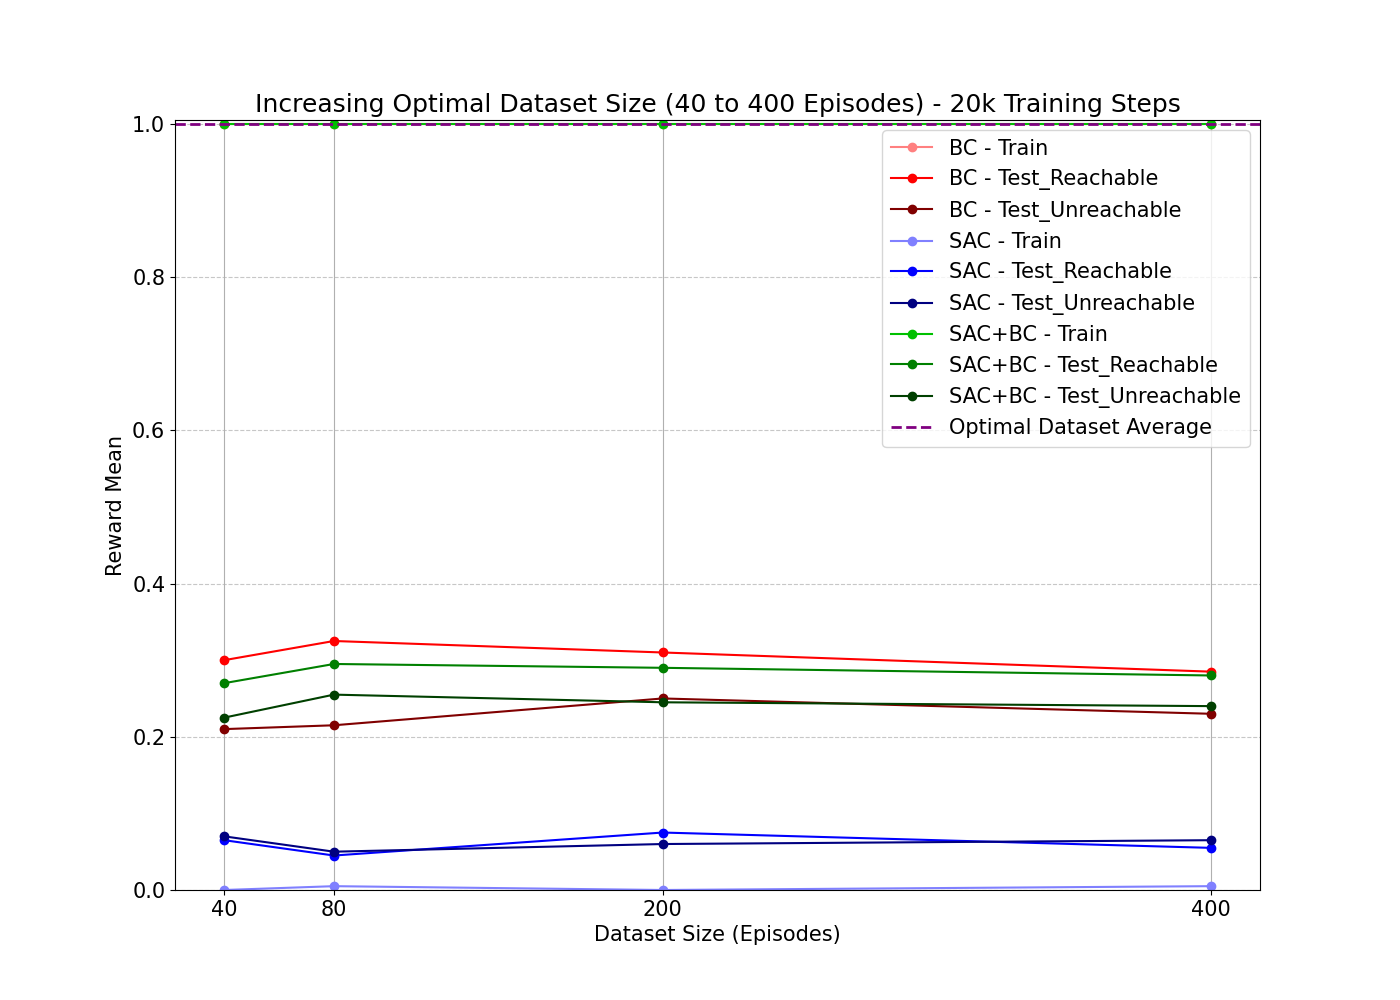
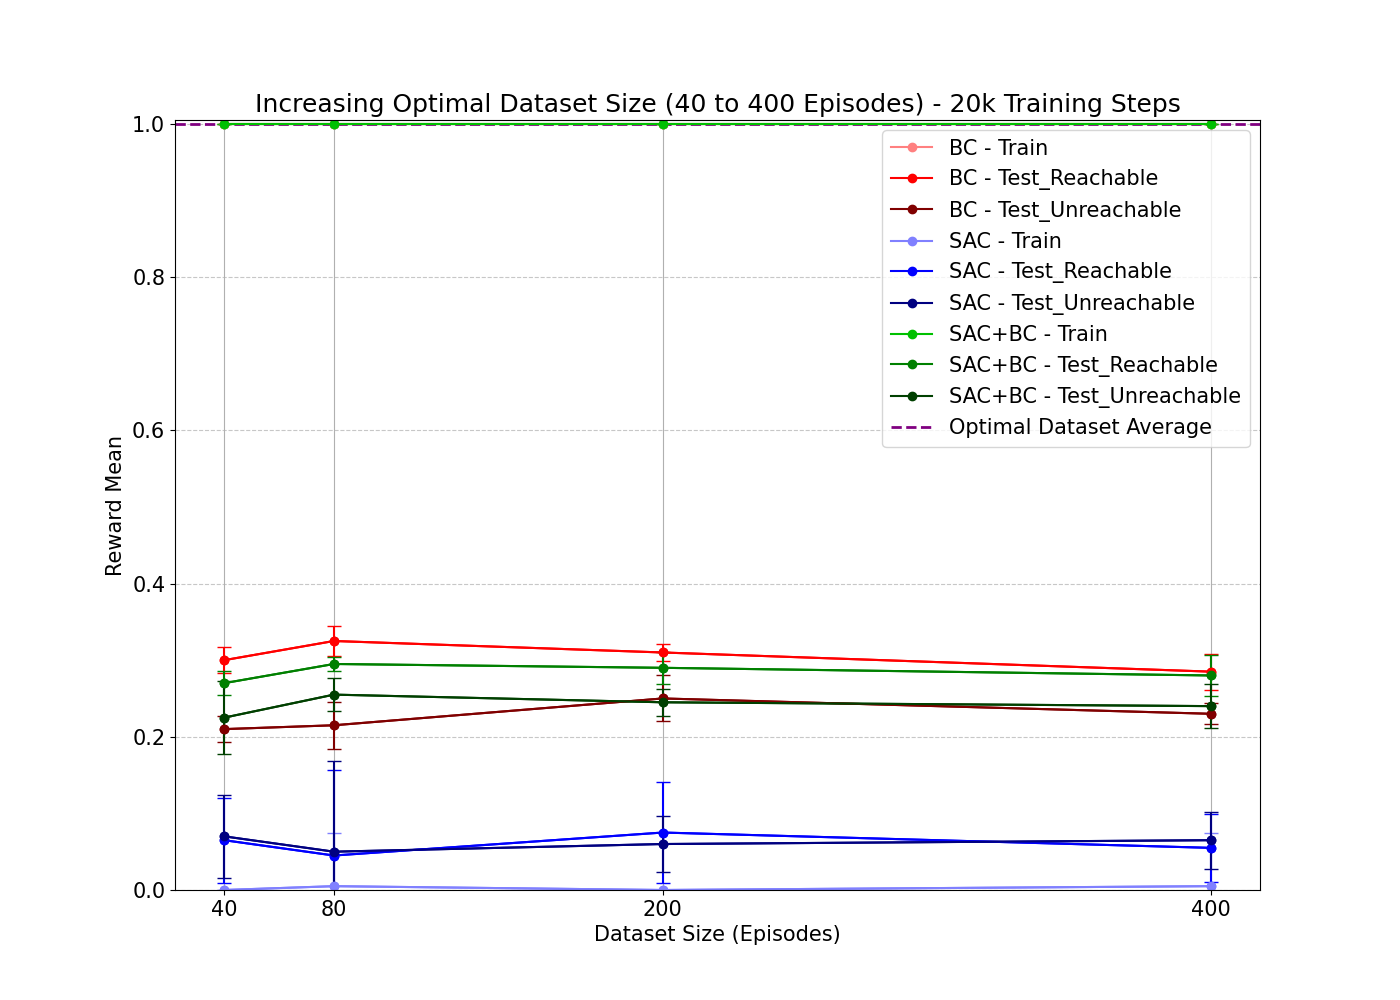
update plots

diff --git a/results.py b/results.py
@@ -129,22 +129,24 @@ def plotLearningCurve(dataset_quality: str, algorithm: str):
     
     
     # Draw standard deviation as a shaded area in the background
+    plt.rcParams.update({'font.size': 14})  # Adjust this value as needed
     plt.figure(figsize=(12, 8))
 
     for environment in grouped_env["Environment"].unique():
         env_data = grouped_env[grouped_env["Environment"] == environment]
         steps = env_data["Steps"].values
         reward_mean = env_data["Reward_mean"].values
-        # reward_std = env_data["Reward_std"].values
+        reward_std = env_data["Reward_std"].values
+        # plt.errorbar(env_data["Steps"], env_data["Reward_mean"], yerr=env_data["Reward_std"], fmt='-o', capsize=5, label=environment)
         plt.plot(steps, reward_mean, marker='o', label=environment)
-        # plt.fill_between(steps, reward_mean - reward_std, reward_mean + reward_std, alpha=0.2)
+        plt.fill_between(steps, reward_mean - reward_std, reward_mean + reward_std, alpha=0.2)
 
     dataset_line = plt.axhline(y=dataset_average, color='red', linestyle='dotted', linewidth=1, label=f'{dataset_quality} Dataset Average')
     dataset_line.set_dashes([5, 10])  # 5 points on, 10 points off
 
     plt.xlabel("Training Steps")
-    plt.ylabel("Mean Reward")
-    plt.title(f"{algorithm.upper()} Learning Curve - {dataset_quality.capitalize()} Dataset with {dataset_size} Transitions - Averaged over 5 seeds")
+    plt.ylabel("Reward Mean")
+    plt.title(f"{algorithm.upper()} Learning Curve - {dataset_quality.capitalize()} Dataset with {dataset_size} Episodes")
     plt.legend()
     plt.grid(True)
     
@@ -202,10 +204,11 @@ def plotGeneralizationGraph(dataset_quality: str, training_steps: int):
     reward_mean_std = reward_mean_std.unstack()
 
     # Plotting
+    plt.rcParams.update({'font.size': 13})  # Adjust this value as needed
     fig, ax = plt.subplots(figsize=(8, 6))
     reward_mean_avg_env.plot(kind='bar', yerr=reward_mean_std, capsize=4, ax=ax,
         color=['skyblue', 'lightgreen', 'salmon'])
-    ax.set_title(f'{dataset_quality.capitalize()} Dataset with {dataset_size} Transitions - {int(training_steps / 1000)}k Training Steps')
+    ax.set_title(f'{dataset_quality.capitalize()} Dataset with {dataset_size} Episodes - {int(training_steps / 1000)}k Training Steps')
     ax.set_ylabel('Reward Mean')
     ax.set_xlabel('')
     ax.set_xticks(range(len(reward_mean_avg_env.index)))
@@ -261,7 +264,8 @@ def plotTrainingEnvironmentGraph(training_steps: int):
     reward_mean_std = df_train.groupby(['Algorithm', 'Dataset'])['Reward_mean'].std().unstack()
 
     # Plotting
-    fig, ax = plt.subplots(figsize=(12, 6))
+    plt.rcParams.update({'font.size': 15})  # Adjust this value as needed
+    fig, ax = plt.subplots(figsize=(8, 6))
 
     reward_mean_avg_env.T.plot(kind='bar', yerr=reward_mean_std.T, capsize=4, ax=ax,
         color=['skyblue', 'lightgreen', 'salmon'])
@@ -336,7 +340,7 @@ def plotVariousDatasetSizeGraph(dataset_quality: str):
     
     df_filtered = df[df['Steps'] == training_steps]
     # Group by Size, Algorithm, and Environment, then calculate the mean of Reward_mean
-    df_grouped_env = df_filtered.groupby(['Size', 'Algorithm', 'Environment']).agg({'Reward_mean': 'mean'}).reset_index()
+    df_grouped_env = df_filtered.groupby(['Size', 'Algorithm', 'Environment']).agg({'Reward_mean': 'mean', 'Reward_std': 'std',}).reset_index()
 
     # Plot
     plt.rcParams.update({'font.size': 15})  # Adjust this value as needed
@@ -344,8 +348,16 @@ def plotVariousDatasetSizeGraph(dataset_quality: str):
     for algorithm in df_grouped_env['Algorithm'].unique():
         for environment in df_grouped_env['Environment'].unique():
             subset = df_grouped_env[(df_grouped_env['Algorithm'] == algorithm) & (df_grouped_env['Environment'] == environment)]
+            print('subset:', subset)
             color = adjust_color_lightness(algorithm_base_colors[algorithm], environment_lightness[environment])
             plt.plot(subset['Size'], subset['Reward_mean'], marker='o', label=f'{algorithm} - {environment}', color=color)
+
+            size = subset["Size"].values
+            reward_mean = subset["Reward_mean"].values
+            reward_std = subset["Reward_std"].values
+            # plt.fill_between(size, reward_mean - reward_std, reward_mean + reward_std, alpha=0.5)
+            plt.errorbar(size, reward_mean, yerr=reward_std, fmt='-o', capsize=5, color=color)
+
 
     plt.grid(axis='y', linestyle='--', alpha=0.7)
     plt.ylim(0, 1.005)
@@ -362,32 +374,6 @@ def plotVariousDatasetSizeGraph(dataset_quality: str):
 
 
 
-
-
-# 4. How much overfitting on the training model performs the best
-# which SAC-N model performs the best on test100_config and test0_config?
-# use models from 0.1-1.0 mean reward on evaluating on training_config
-
-############# Configuration ##########################################################
-
-CONFIG = {
-    "training_datasets": {
-        # "optimal": "./datasets/expert_dataset_iql.pkl",
-        "optimal": "./datasets/optimal_40x.pkl",
-        "suboptimal": "./datasets/suboptimal_80x.pkl"
-    },
-    "evaluation_models": {
-        "optimal": {
-            "sac": "./models/sac/optimal_2999epochs.pt",
-            "bc": "./models/bc/BC_model_optimal.d3",
-        },
-        "suboptimal": {
-            "sac": "./models/sac/suboptimal_2999epochs.pt",
-            "bc": "./models/bc/BC_model_suboptimal.d3"
-        }
-    }
-}
-
 ############# Dataset Generation ######################################################
 
 def generate_datasets():
@@ -396,46 +382,40 @@ def generate_datasets():
         dataset_gen_suboptimal_policy.generate_dataset(num_episodes)
         dataset_gen_mixed_policy.generate_dataset(num_episodes)
 
-############# Training ###############################################################
-
-
-############# Evaluation #############################################################
-
-
-
-
-
-
 
 
 ############# Main Execution #########################################################
 
 def main():
     # 1. Generate datasets
-    generate_datasets()
+    # generate_datasets()
     
     # 2. Tune Hyperparameters
+    # TODO: tune hyperparameters manually with hyperparameter_tuning_bc.py, hyperparameter_tuning_sac.py, hyperparameter_tuning_sac_bc.py
     
     # 3. Train algorithms
+    # TODO: train & save models manually with the train() function in discrete_BC.py, discrete_sac.py, discrete_BC_sac.py
     
     # 4. Evaluate models 
+    # TODO: evaluate models manually with the eval_all_models() function in discrete_BC.py, discrete_sac.py, discrete_BC_sac.py
     
     # 5. plot results
-    plotLearningCurve(dataset_quality='optimal', algorithm = 'bc')    
-    plotLearningCurve(dataset_quality='suboptimal', algorithm = 'bc')    
-    plotLearningCurve(dataset_quality='mixed', algorithm = 'bc')    
-    plotLearningCurve(dataset_quality='optimal', algorithm = 'sac_')    
-    plotLearningCurve(dataset_quality='suboptimal', algorithm = 'sac')    
-    plotLearningCurve(dataset_quality='mixed', algorithm = 'sac')    
-    plotLearningCurve(dataset_quality='optimal', algorithm = 'sac_bc')    
-    plotLearningCurve(dataset_quality='suboptimal', algorithm = 'sac_bc')    
-    plotLearningCurve(dataset_quality='mixed', algorithm = 'sac_bc')   
+    # plotLearningCurve(dataset_quality='optimal', algorithm = 'bc')    
+    # plotLearningCurve(dataset_quality='suboptimal', algorithm = 'bc')    
+    # plotLearningCurve(dataset_quality='mixed', algorithm = 'bc')    
+    # plotLearningCurve(dataset_quality='optimal', algorithm = 'sac')    
+    # plotLearningCurve(dataset_quality='suboptimal', algorithm = 'sac')    
+    # plotLearningCurve(dataset_quality='mixed', algorithm = 'sac')    
+    # plotLearningCurve(dataset_quality='optimal', algorithm = 'sac_bc')    
+    # plotLearningCurve(dataset_quality='suboptimal', algorithm = 'sac_bc')    
+    # plotLearningCurve(dataset_quality='mixed', algorithm = 'sac_bc')   
 
-    plotGeneralizationGraph(dataset_quality = 'optimal', training_steps = 20000)
-    plotGeneralizationGraph(dataset_quality = 'suboptimal', training_steps = 20000)
-    plotGeneralizationGraph(dataset_quality = 'mixed', training_steps = 50000)
+    # plotGeneralizationGraph(dataset_quality = 'optimal', training_steps = 20000)
+    # plotGeneralizationGraph(dataset_quality = 'suboptimal', training_steps = 20000)
+    # plotGeneralizationGraph(dataset_quality = 'mixed', training_steps = 50000)
     
-    plotTrainingEnvironmentGraph(training_steps = 20000)
+    # plotTrainingEnvironmentGraph(training_steps = 20000)
+    # plotTrainingEnvironmentGraph(training_steps = 50000)
     
     plotVariousDatasetSizeGraph(dataset_quality = 'optimal')
     plotVariousDatasetSizeGraph(dataset_quality = 'suboptimal')
